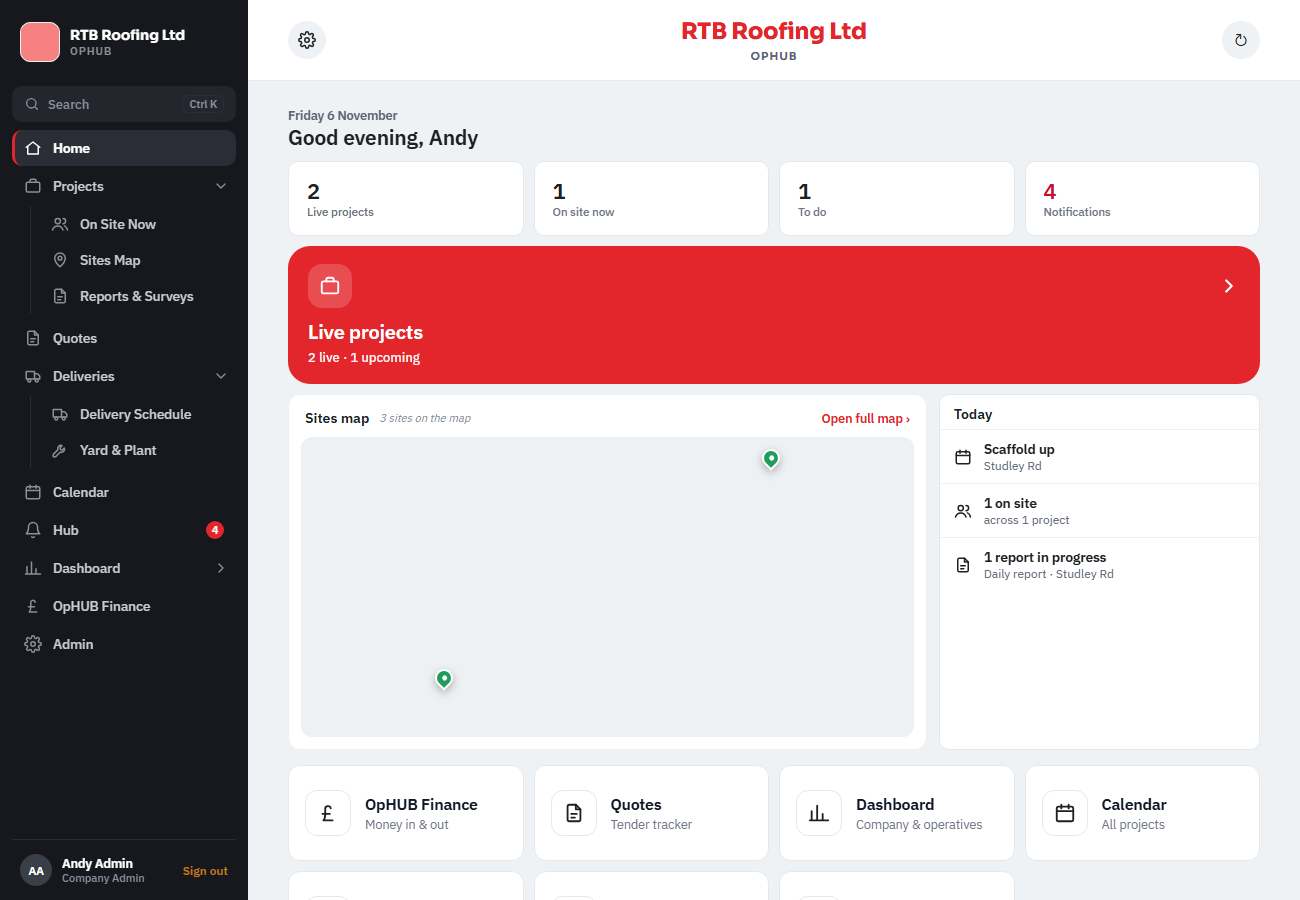
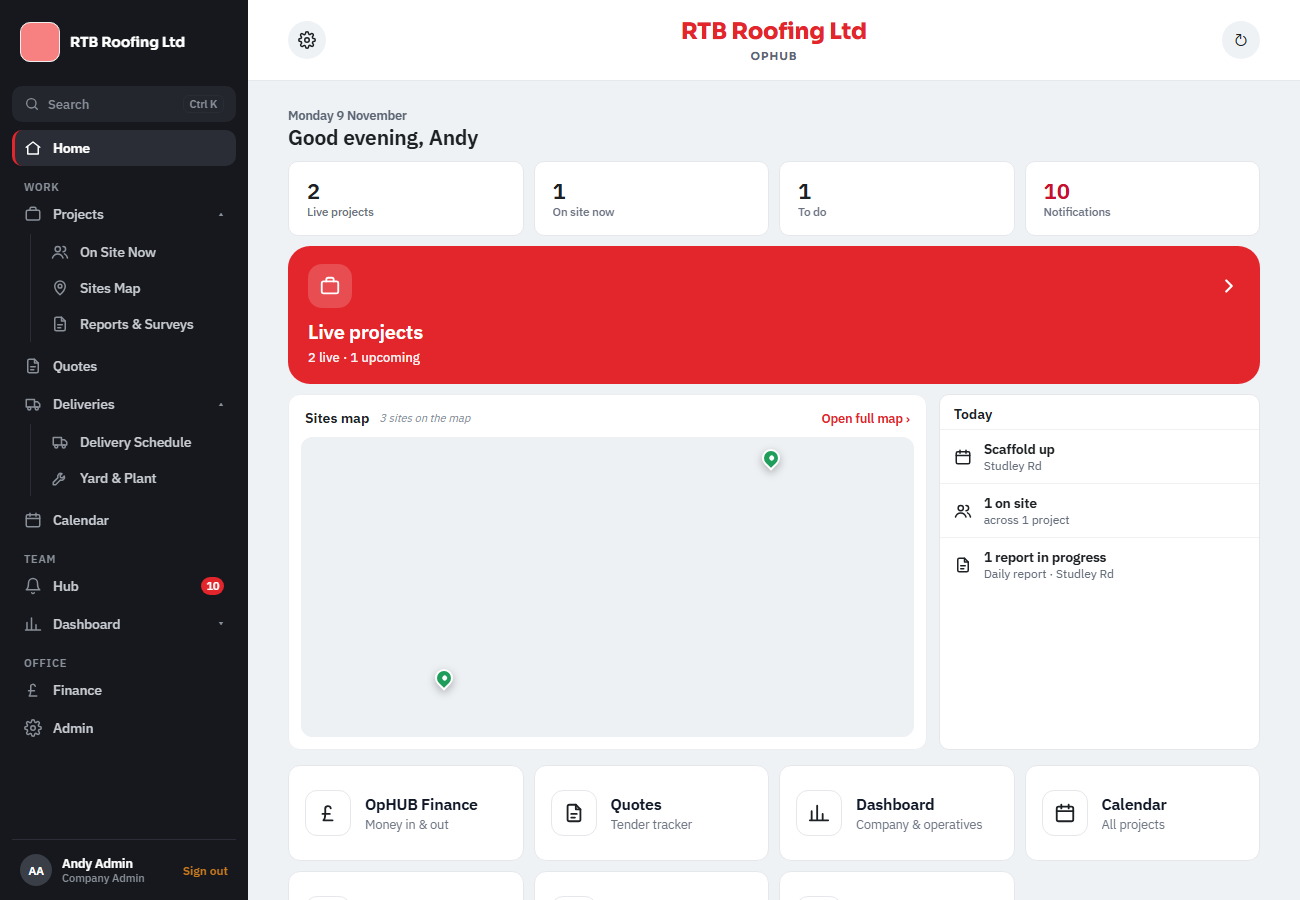
Laptop menu (Andy, 9 Nov, option A): a manager's items under Work, Team and Office headings; drop-down marks where a list opens underneath; Finance (not OpHUB Finance); no OPHUB line under the company name
Test: desknav-groups-check (admin, PM without Finance, operative).

Claude-Session: https://claude.ai/code/session_012KhfNvBEbifMJmPdX7yZfp

diff --git a/app-native/src/components/DeskNav.tsx b/app-native/src/components/DeskNav.tsx
@@ -15,7 +15,8 @@ import { brand } from '@/lib/fonts';
 import { homeKind, isFinanceUser, isFullManager, isManager, roleLabel } from '@/lib/roles';
 import { base, useTheme } from '@/theme/theme';
 
-type Item = { k: string; ic: string; lbl: string; go: string; badge?: number; kids?: Item[] };
+// sec: the heading a manager's item sits under (Andy, 9 Nov 2026, option A): Work, Team, Office.
+type Item = { k: string; ic: string; lbl: string; go: string; badge?: number; kids?: Item[]; sec?: string };
 
 /** The menu's colours: charcoal, light grey text, the page you're on in white with a red edge (Andy, 6 Nov 2026). */
 const NAV = { bg: '#16181D', text: '#C9CDD3', dim: '#8A9099', on: '#2A2D35', hover: '#20232A', line: '#2A2D35', search: '#23262D', avatar: '#3A3E47' };
@@ -36,26 +37,26 @@ export function DeskNav() {
     : me.role === 'driver' ? [{ k: 'home', ic: 'home', lbl: 'Home', go: '/home' }, { k: 'driver/schedule', ic: 'truck', lbl: 'My schedule', go: '/driver/schedule' }, { k: 'account', ic: 'gear', lbl: 'Settings', go: '/account' }]
     : mgr ? [
       ...(isFullManager(me) ? [{ k: 'home', ic: 'home', lbl: 'Home', go: '/home' }] : []),
-      { k: 'sites', ic: 'projects', lbl: 'Projects', go: '/sites', kids: [
+      { k: 'sites', ic: 'projects', lbl: 'Projects', go: '/sites', sec: 'Work', kids: [
         ...(isFullManager(me) ? [{ k: 'onsite', ic: 'users', lbl: 'On Site Now', go: '/onsite' }] : []),
         ...(isManager(me) ? [{ k: 'pm/sitemap', ic: 'pin', lbl: 'Sites Map', go: '/pm/sitemap' }] : []),
         ...(isFullManager(me) ? [{ k: 'pm/reports', ic: 'reports', lbl: 'Reports & Surveys', go: '/pm/reports' }] : []),
       ] },
-      ...(isFullManager(me) ? [{ k: 'pm/quotes', ic: 'reports', lbl: 'Quotes', go: '/pm/quotes' }] : []),
+      ...(isFullManager(me) ? [{ k: 'pm/quotes', ic: 'reports', lbl: 'Quotes', go: '/pm/quotes', sec: 'Work' }] : []),
       // Deliveries opens out like Projects: the delivery schedule, and the yard and plant register (Andy, 5 Nov 2026; it was under Projects).
-      { k: 'pm/deliveries', ic: 'truck', lbl: 'Deliveries', go: '/pm/deliveries', kids: [
+      { k: 'pm/deliveries', ic: 'truck', lbl: 'Deliveries', go: '/pm/deliveries', sec: 'Work', kids: [
         { k: 'pm/deliveries', ic: 'truck', lbl: 'Delivery Schedule', go: '/pm/deliveries' },
         ...(isManager(me) ? [{ k: 'pm/yard', ic: 'tools', lbl: 'Yard & Plant', go: '/pm/yard' }] : []),
       ] },
-      { k: 'pm/calendar', ic: 'calendar', lbl: 'Calendar', go: '/pm/calendar' },
-      { k: 'pm/hub', ic: 'bell', lbl: 'Hub', go: '/pm/hub', badge: hubN },
-      { k: 'pm/dashboard', ic: 'chart', lbl: 'Dashboard', go: '/pm/dashboard', kids: [
+      { k: 'pm/calendar', ic: 'calendar', lbl: 'Calendar', go: '/pm/calendar', sec: 'Work' },
+      { k: 'pm/hub', ic: 'bell', lbl: 'Hub', go: '/pm/hub', badge: hubN, sec: 'Team' },
+      { k: 'pm/dashboard', ic: 'chart', lbl: 'Dashboard', go: '/pm/dashboard', sec: 'Team', kids: [
         { k: 'pm/dashboard', ic: 'chart', lbl: 'Company', go: '/pm/dashboard' },
         { k: 'pm/operatives', ic: 'admin', lbl: 'Operatives', go: '/pm/operatives' },
         { k: 'pm/hr', ic: 'users', lbl: 'HR', go: '/pm/hr' },
       ] },
-      ...(isFinanceUser(me, org) ? [{ k: 'fin', ic: 'pound', lbl: 'OpHUB Finance', go: '/fin' }] : []),
-      { k: 'pm/admin', ic: 'gear', lbl: 'Admin', go: '/pm/admin' },
+      ...(isFinanceUser(me, org) ? [{ k: 'fin', ic: 'pound', lbl: 'Finance', go: '/fin', sec: 'Office' }] : []),
+      { k: 'pm/admin', ic: 'gear', lbl: 'Admin', go: '/pm/admin', sec: 'Office' },
     ]
     : [
       ...(me.role === 'operative' ? [{ k: 'home', ic: 'home', lbl: 'Home', go: '/home' }] : []),
@@ -87,8 +88,9 @@ export function DeskNav() {
       <View key={i.k}>
         <View style={{ flexDirection: 'row', alignItems: 'center', gap: 2 }}>
           {row(i, isOn(i.k) && !kidOn)}
-          <Pressable onPress={() => setOpen({ ...open, [i.k]: !shown })} accessibilityLabel={`Show ${i.lbl} pages`} style={{ width: 30, height: 30, borderRadius: 8, alignItems: 'center', justifyContent: 'center', transform: [{ rotate: shown ? '90deg' : '0deg' }] }}>
-            <OphIcon name="chevron" size={16} color={NAV.dim} />
+          {/* ▾ where a list opens underneath (Andy's drop-down rule), ▴ when it's open. */}
+          <Pressable onPress={() => setOpen({ ...open, [i.k]: !shown })} accessibilityLabel={`Show ${i.lbl} pages`} style={{ width: 30, height: 30, borderRadius: 8, alignItems: 'center', justifyContent: 'center' }}>
+            <Text style={{ fontSize: 15, color: NAV.dim }}>{shown ? '▴' : '▾'}</Text>
           </Pressable>
         </View>
         {shown && <View style={{ marginLeft: 18, marginTop: 2, marginBottom: 4, paddingLeft: 8, borderLeftWidth: 1.5, borderLeftColor: NAV.line }}>{kids.map((c) => <View key={c.k + c.go} style={{ flexDirection: 'row' }}>{row(c, isOn(c.k))}</View>)}</View>}
@@ -115,7 +117,6 @@ export function DeskNav() {
           </View>
           <View style={{ flex: 1, minWidth: 0 }}>
             <Text numberOfLines={2} style={[brand(700), { fontSize: 14, color: '#fff', lineHeight: 17 }]}>{org?.name || 'OpHUB'}</Text>
-            <Text style={{ fontSize: 11, fontWeight: '600', color: NAV.dim, letterSpacing: 0.9 }}>OPHUB</Text>
           </View>
         </Pressable>
         {kind !== 'finance' && kind !== 'superadmin' && (
@@ -125,7 +126,13 @@ export function DeskNav() {
             <Text style={{ fontSize: 10.5, fontWeight: '600', color: NAV.dim, borderWidth: 1, borderColor: NAV.line, borderRadius: 6, paddingHorizontal: 6, paddingVertical: 1 }}>Ctrl K</Text>
           </Pressable>
         )}
-        <View style={{ gap: 2, marginTop: 4 }}>{items.map(group)}</View>
+        {/* A manager's items under Work, Team and Office headings (Andy, 9 Nov 2026, option A). */}
+        <View style={{ gap: 2, marginTop: 4 }}>{items.map((i, n) => (
+          <View key={`${i.k}-wrap`}>
+            {!!i.sec && i.sec !== items[n - 1]?.sec && <Text style={{ marginTop: 12, marginBottom: 2, marginHorizontal: 12, fontSize: 10.5, fontWeight: '600', letterSpacing: 1, color: NAV.dim }}>{i.sec.toUpperCase()}</Text>}
+            {group(i)}
+          </View>
+        ))}</View>
         {sub.length > 0 && (
           <>
             <Text style={{ marginTop: 18, marginHorizontal: 12, marginBottom: 4, fontSize: 10.5, fontWeight: '600', letterSpacing: 1, color: NAV.dim }}>THIS PROJECT</Text>

diff --git a/tools/test-harness/desknav-groups-check.js b/tools/test-harness/desknav-groups-check.js
@@ -1,0 +1,44 @@
+// The laptop's left menu (Andy, 9 Nov 2026, option A): a manager's items under Work, Team and Office headings; ▾ where a
+// list opens underneath (▴ when open); "Finance", not "OpHUB Finance"; no OPHUB line under the company name. A PM without
+// Finance has Admin alone under Office; an operative has no headings. Fake database. node desknav-groups-check.js
+const {chromium, makeContext, S1} = require('./harness');
+const seed = require('./fresh/seed');
+const check = (ok, what) => { console.log((ok ? 'PASS ' : 'FAIL ') + what); if (!ok) process.exitCode = 1; };
+const BASE = 'http://localhost:8081';
+const login = async (page) => {
+  await page.goto(BASE + '/login'); await page.waitForTimeout(4000);
+  await page.fill('input[placeholder="you@yourcompany.co.uk"]', 'a@x.co'); await page.fill('input[type="password"]', 'pw123456');
+  await page.getByText('Sign In', {exact: true}).click(); await page.waitForTimeout(5000);
+};
+// The menu's own text: everything left of 250px.
+const menuText = (page) => page.evaluate(() => [...document.querySelectorAll('div[dir="auto"]')].filter((e) => { const r = e.getBoundingClientRect(); return r.width > 0 && r.right < 250; }).sort((a, b) => a.getBoundingClientRect().top - b.getBoundingClientRect().top).map((e) => e.textContent.trim()).filter(Boolean));
+(async () => {
+  const browser = await chromium.launch(); const errs = [];
+  for (const [name, role, fin] of [['admin', 'admin', true], ['pm', 'pm', false], ['operative', 'operative', false]]) {
+    const {ctx, db} = await makeContext(browser, role, [], {viewport: {width: 1366, height: 900}});
+    seed(db); db.profiles[0].howto_dismissed = ['*']; db.profiles[0].finance_enabled = fin;
+    const page = await ctx.newPage(); page.on('pageerror', (e) => errs.push(`${name}: ${e.message}`));
+    await login(page);
+    await page.goto(`${BASE}/home`); await page.waitForTimeout(5000);
+    const m = await menuText(page);
+    const at = (x) => m.indexOf(x);
+    if (role === 'operative') check(at('WORK') < 0 && at('TEAM') < 0 && at('OFFICE') < 0 && at('OPHUB') < 0, `${name}: no headings (a short menu), no OPHUB line`);
+    else {
+      check(at('WORK') > at('Home') && at('Projects') > at('WORK') && at('Calendar') > at('Projects') && at('TEAM') > at('Calendar') && at('Hub') > at('TEAM') && at('Dashboard') > at('Hub') && at('OFFICE') > at('Dashboard') && at('Admin') > at('OFFICE'), `${name}: Home, then WORK (Projects … Calendar), TEAM (Hub, Dashboard), OFFICE (… Admin) [${m.slice(0, 22).join(' | ')}]`);
+      check(fin ? at('Finance') > at('OFFICE') && at('OpHUB Finance') < 0 : at('Finance') < 0, fin ? `${name}: Finance under Office (not "OpHUB Finance")` : `${name}: no Finance (Admin alone under Office)`);
+      check(at('OPHUB') < 0 && m.filter((x) => x === '▾').length >= 3, `${name}: no OPHUB line; ▾ beside the items that open`);
+      await page.getByLabel('Show Projects pages').click(); await page.waitForTimeout(500);
+      const m2 = await menuText(page);
+      check(m2.includes('▴') && m2.includes('Sites Map'), `${name}: ▾ opens the list underneath (▴ when open)`);
+      await page.screenshot({path: `shots/desknav-${name}.png`});
+      await page.goto(`${BASE}/sites/${S1}`); await page.waitForTimeout(5000);
+      const m3 = await menuText(page);
+      check(m3.includes('THIS PROJECT') && m3.includes('Project Home'), `${name}: inside a job, This Project still shows`);
+      await page.screenshot({path: `shots/desknav-${name}-job.png`});
+    }
+    if (role === 'operative') await page.screenshot({path: `shots/desknav-${name}.png`});
+    await ctx.close();
+  }
+  check(!errs.length, `no page errors ${errs.slice(0, 2).join(' | ')}`);
+  await browser.close();
+})();
